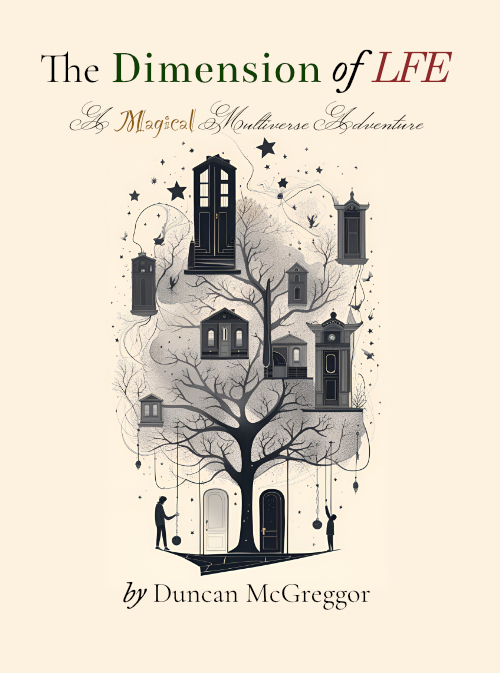
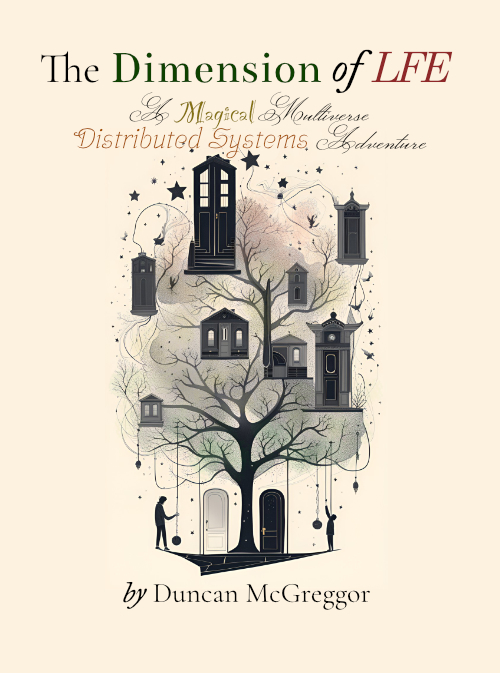
Updated subtitle.

Changed region(s): [[0.15, 0.1248, 0.84, 0.2496], [0.39, 0.6553, 0.45, 0.6865]]

diff --git a/README.md b/README.md
@@ -1,6 +1,6 @@
 # The Dimension of LFE
 
-*A Magical Multiverse Adventure*
+*A Magical Multiverse Distributed Systems Adventure*
 
 **Note**: This book is a long-term project and a work in progress.
 

diff --git a/src/fm/title-page.md b/src/fm/title-page.md
@@ -1,5 +1,7 @@
 # The DIMENSION of LFE
 
+## _A Magical Multiverse Distributed Systems Adventure_
+
 <br/>
 <br/>
 <br/>
